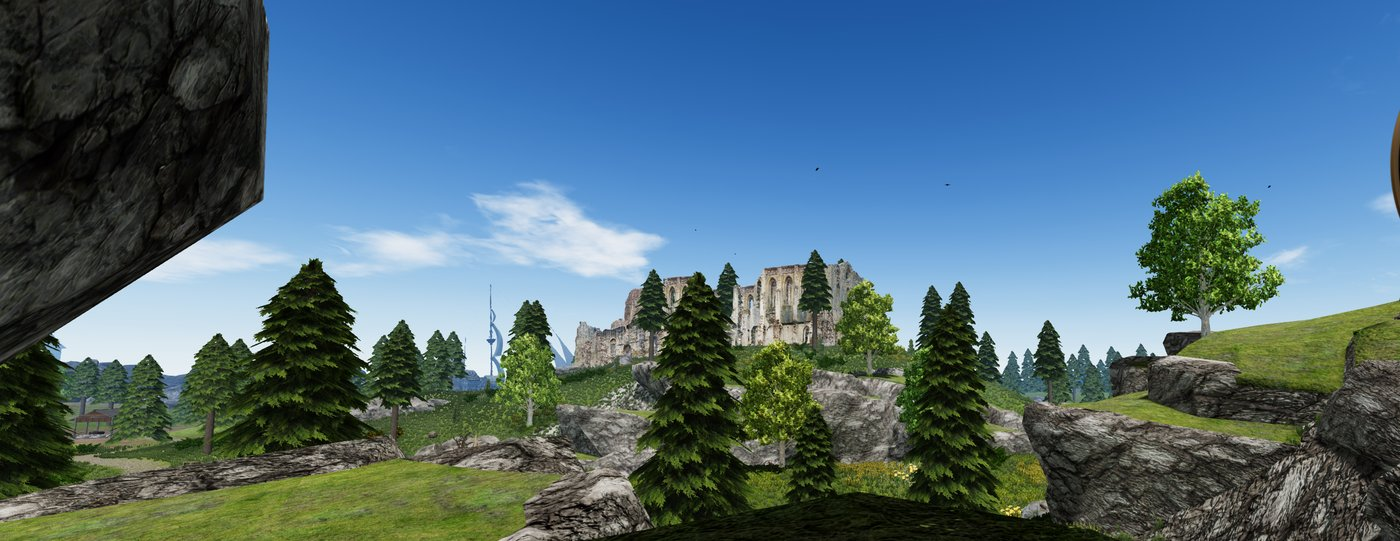
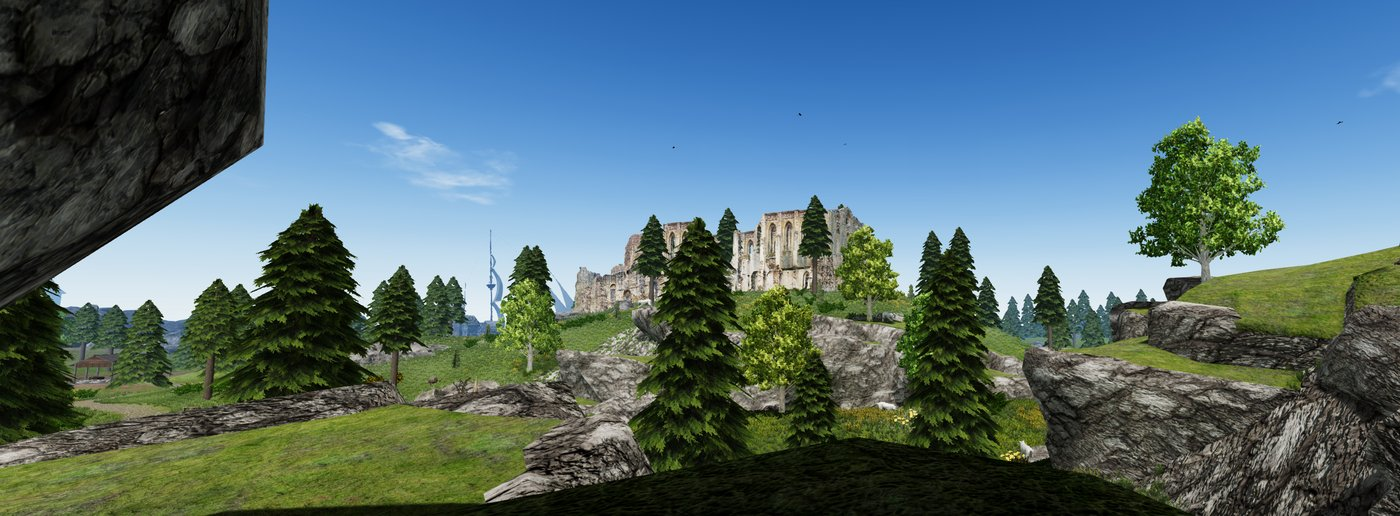
Retake README screenshots and add weather and ambience shots
The before-and-after table is retaken with 1.1.0 at the same three spots
(10:00, weather held clear, ambient particles off), cropped to drop the
minimap, chat, hotbar and wayshrine prompt. The weather section gets
sunset, morning fog and rain; the ambient lights section gets dusk and
night in West Athagos and the monastery at dusk.

diff --git a/README.md b/README.md
@@ -8,7 +8,7 @@ It works with or without GSO Offline Server.
 
 ## Before and after
 
-Each row is the same moment from the same spot, switched in-game: the original game, the HD texture pack, and the HD texture pack with [enhanced lighting](#enhanced-lighting) (the default). Click an image for full size. The lighting is the most visible change; the HD textures mostly show up close and on large surfaces such as walls, rocks and the ground.
+Each row is the same moment from the same spot (10:00, clear weather, ambient particles off), switched in-game: the original game, the HD texture pack, and the HD texture pack with [enhanced lighting](#enhanced-lighting) (the default). Click an image for full size. The lighting is the most visible change; the HD textures mostly show up close and on large surfaces such as walls, rocks and the ground.
 
 | Original | HD textures | HD textures + enhanced lighting |
 |---|---|---|
@@ -16,7 +16,7 @@ Each row is the same moment from the same spot, switched in-game: the original g
 | ![Monastery, original](docs/images/monastery-original.jpg) | ![Monastery, HD textures](docs/images/monastery-hd-textures.jpg) | ![Monastery, HD textures and enhanced lighting](docs/images/monastery-hd-lighting.jpg) |
 | ![Fields near the ruins, original](docs/images/field-original.jpg) | ![Fields near the ruins, HD textures](docs/images/field-hd-textures.jpg) | ![Fields near the ruins, HD textures and enhanced lighting](docs/images/field-hd-lighting.jpg) |
 
-Screenshots taken on a 3440-pixel-wide screen and scaled down (interface cropped off), with a texture pack built by `tools/textures/` from the game's own art. The pack itself is not distributed.
+Screenshots taken on a 3440-pixel-wide screen and scaled down (interface cropped off), with a texture pack built by `tools/textures/` from the game's own art. The pack itself is not distributed. More screenshots are under [weather](#weather-and-daynight) and [ambient lights](#ambient-lights-and-particles).
 
 ## About this project
 
@@ -71,6 +71,10 @@ Caves and dungeons keep their own lighting and fog, with no rain. GSO Offline Se
 
 Type `/weather` in the chat to see the current weather and when it changes next. `/weather clear`, `cloudy`, `overcast`, `rain` or `fog` switches to that weather and keeps it, and `/weather auto` lets it change on its own again.
 
+| Sunset over the ruins | Morning fog | Rain in West Athagos |
+|---|---|---|
+| ![Sunset over the ruins](docs/images/weather-field-sunset.jpg) | ![Morning fog over the fields](docs/images/weather-field-fog.jpg) | ![Rain in West Athagos](docs/images/weather-town-rain.jpg) |
+
 ## Ambient lights and particles
 
 Lights and particles the game never had, found by name in each scene and attached to the objects they belong to:
@@ -90,6 +94,10 @@ Lights and particles the game never had, found by name in each scene and attache
   The smoke source is found by probing roofs for a narrow peak, which picks real chimneys and also the tips of pointed roofs.
 
 Caves have none of the outdoor effects. Each part can be switched off under `[Ambience]`. A new zone is scanned over a few dozen frames (about 3 ms each), so loading doesn't hitch.
+
+| Dusk: lamps and windows light up | Night, by moonlight | The monastery at dusk |
+|---|---|---|
+| ![West Athagos at dusk, with a lit street lamp, glowing windows and fireflies](docs/images/ambience-town-dusk.jpg) | ![West Athagos at night, with moonlight and lit windows](docs/images/ambience-town-night.jpg) | ![The monastery at dusk, with lit windows](docs/images/ambience-monastery-dusk.jpg) |
 
 ## Building a texture pack
 

diff --git a/CHANGELOG.md b/CHANGELOG.md
@@ -4,6 +4,8 @@ All notable changes are documented here. Format: [Keep a Changelog](https://keep
 `release.ps1` turns the Unreleased heading into a version heading.
 
 ## [Unreleased]
+### Changed
+- README: the before-and-after screenshots are retaken with this version, and the weather and ambient lights sections have screenshots of their own (sunset, fog, rain, dusk and night).
 
 ## [1.1.0] - 2026-10-09
 ### Added
